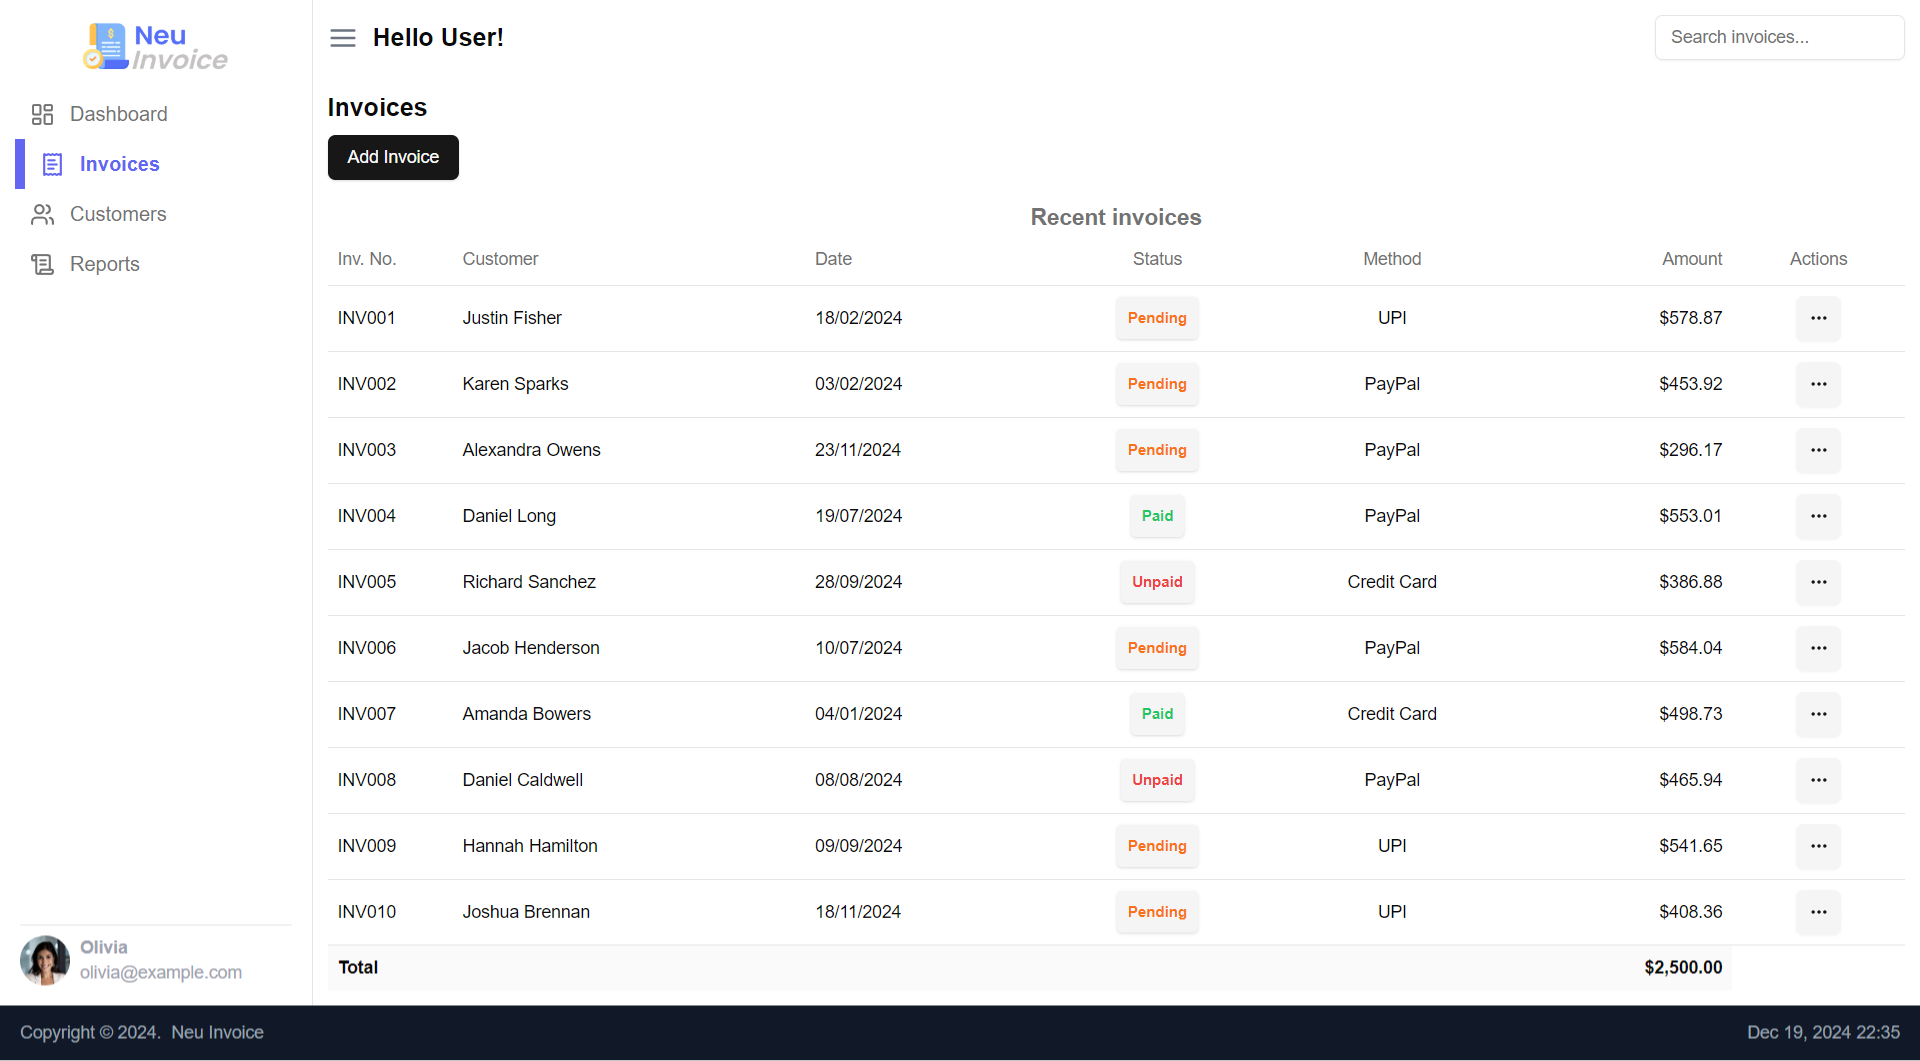
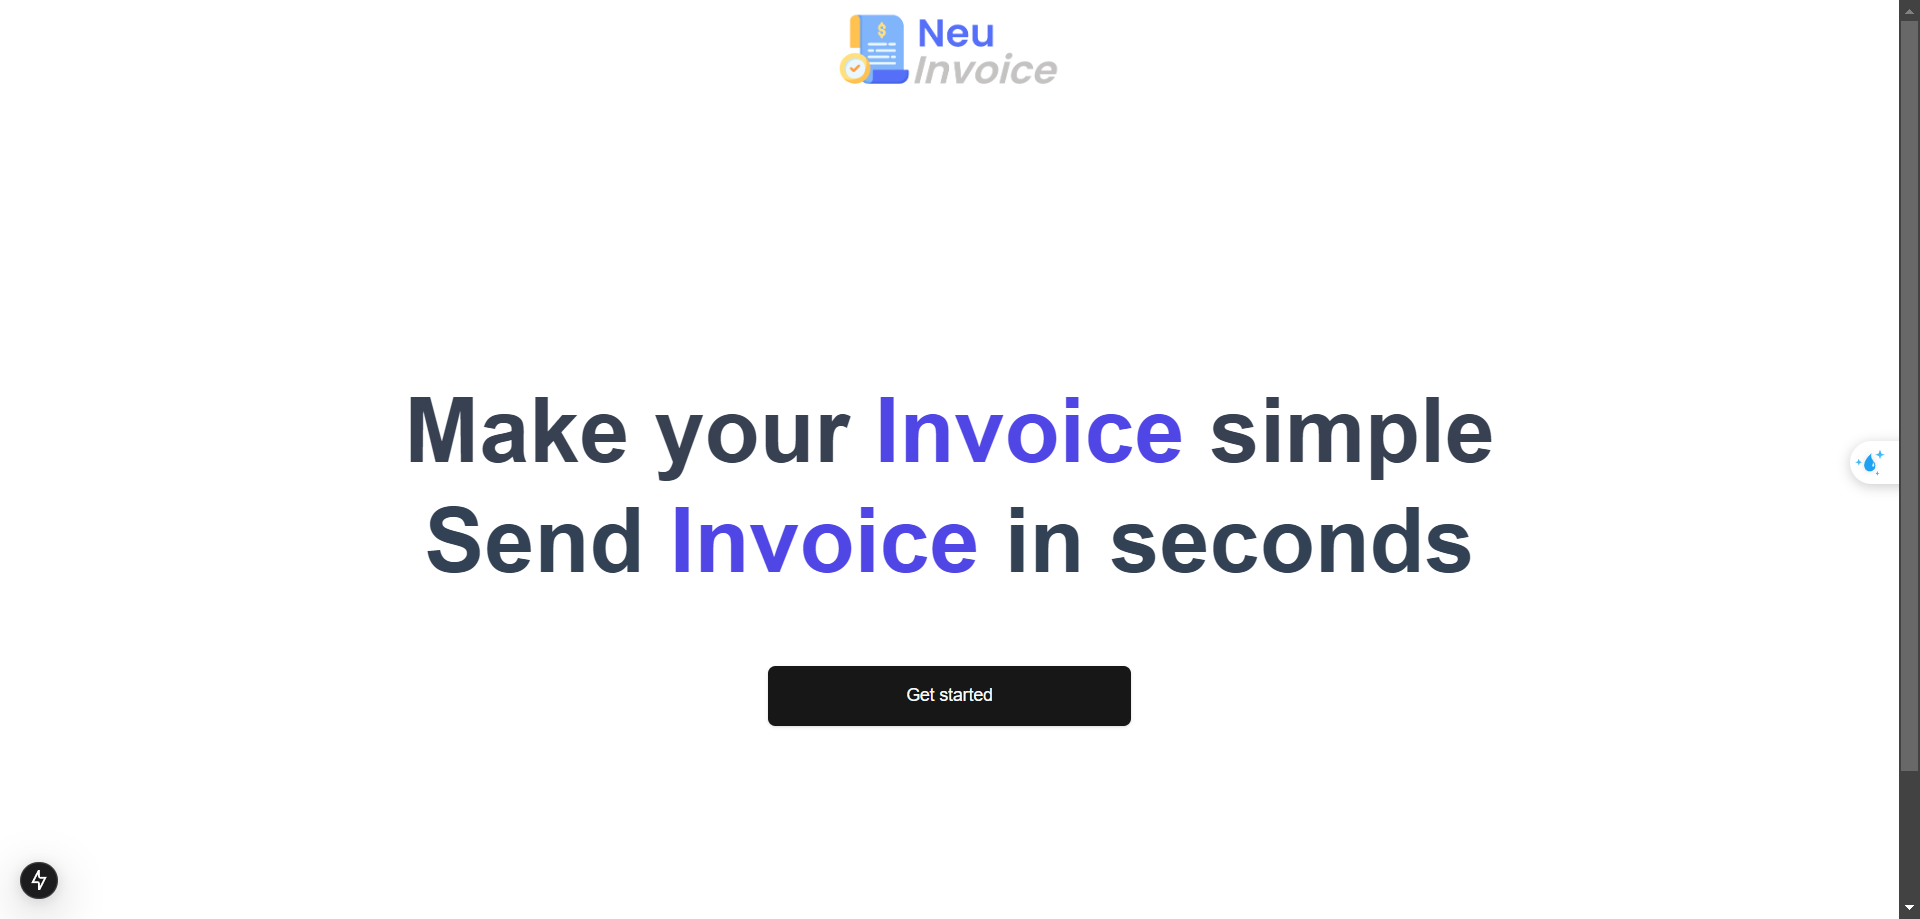
updated readme file and WIP fixing issues

diff --git a/README.md b/README.md
@@ -1,9 +1,9 @@
 # Neu Invoice
 
-This is an Invoice creating application for clients and ease to sending on email with PDF format.
-This application is built with Next.js, Auth.js, Prisma, Neon, Mailtrap, Nodemailer
+This application streamlines invoice creation for clients and facilitates easy sending via email in PDF format. It is developed using Next.js for frontend functionality, Auth.js for authentication management, Prisma for database operations, Neon for ORM (Object-Relational Mapping), Mailtrap for email testing, and Nodemailer for sending emails.
 
 
 ![Invoice App](logo.png)
 
-![Invoices page](001.png)
+![Home page](001.png)
+![Invoices page](002.png)
